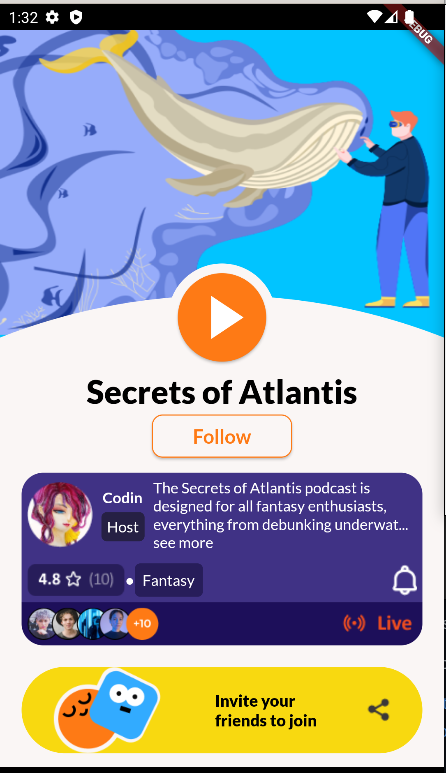
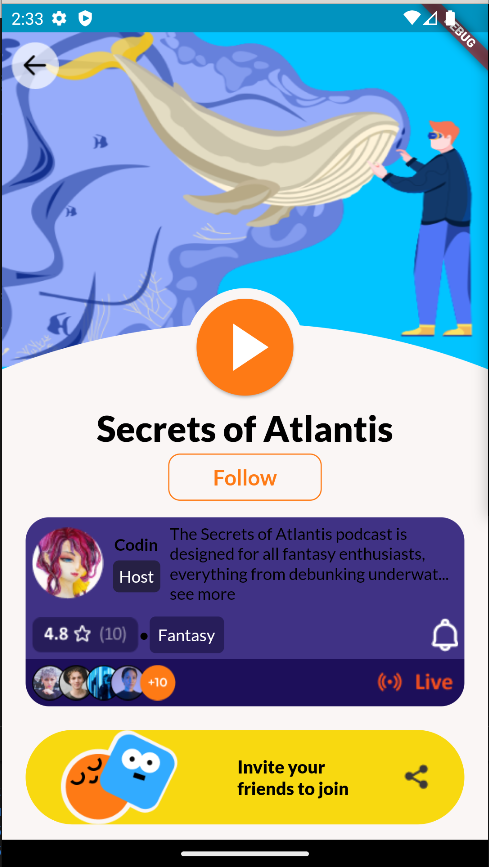
fix button

diff --git a/lib/ScreenOne.dart b/lib/ScreenOne.dart
@@ -18,6 +18,11 @@ class ScreenOne extends StatelessWidget {
                 width: MediaQuery.of(context).size.width,
                 height: MediaQuery.of(context).size.height * 0.4,
                 fit: BoxFit.fill),
+            IconButton(
+              onPressed: () {},
+              icon: Image.asset('assets/back.png'),
+              iconSize: 40,
+            ),
             Center(
               child: Transform.scale(
                 scale: 3,

diff --git a/lib/main.dart b/lib/main.dart
@@ -15,7 +15,7 @@ class MyApp extends StatelessWidget {
   Widget build(BuildContext context) {
     return const MaterialApp(
       title: 'Flutter Demo',
-      home: ScreenTwo(),
+      home: Scaffold(body: ScreenOne()),
     );
   }
 }
